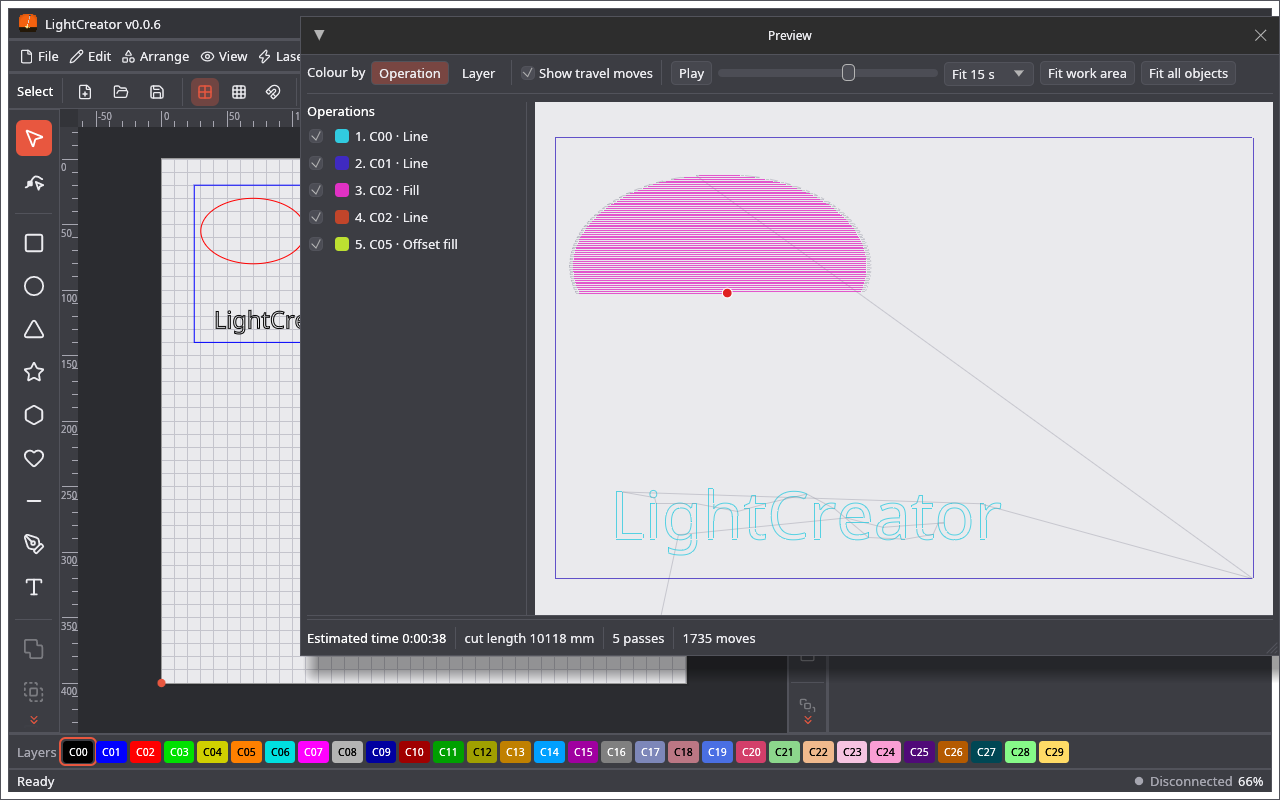
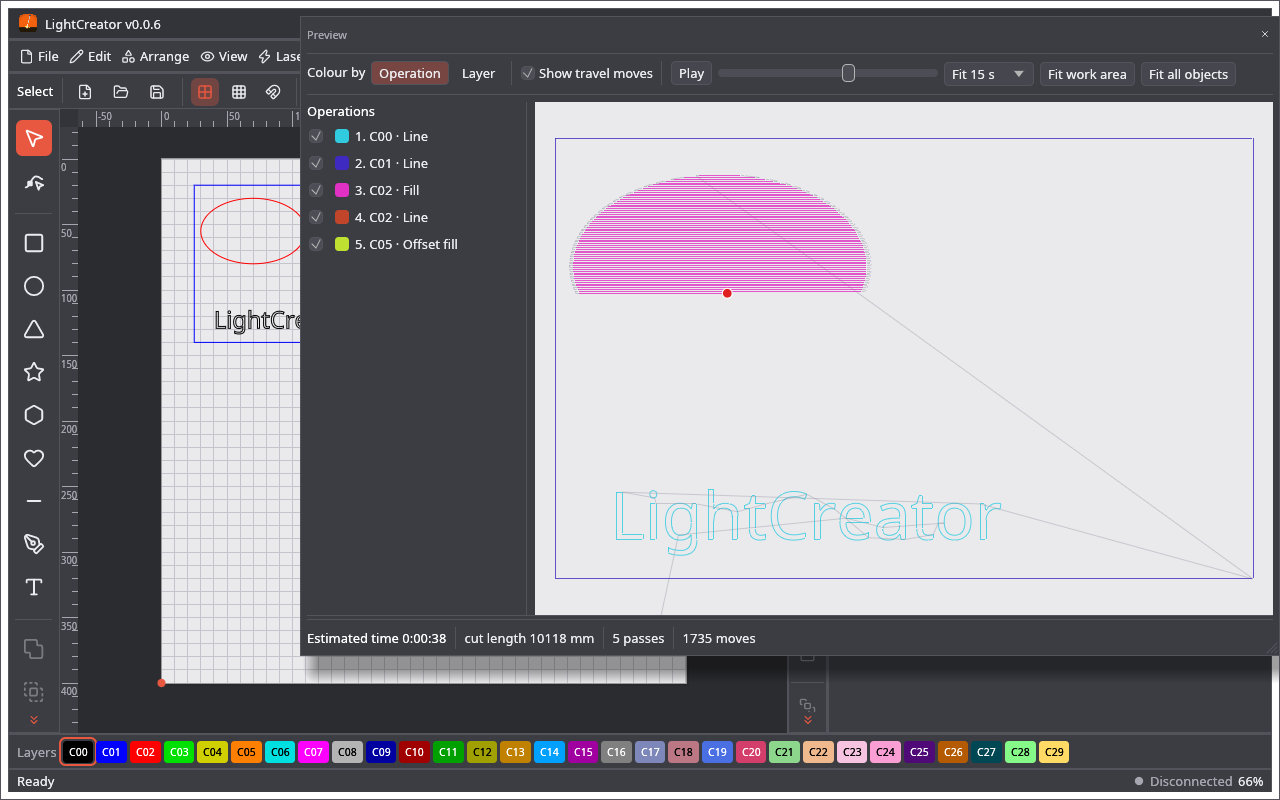
Slim title line with a small close button for the Preview and Camera view windows

diff --git a/crates/lightcreator/src/window_ui.rs b/crates/lightcreator/src/window_ui.rs
@@ -155,3 +155,22 @@ impl App {
         ctx.send_viewport_cmd(ViewportCommand::InnerSize(egui::vec2(w.max(900.0), h.max(560.0))));
     }
 }
+
+/// A slim title line for floating tool windows (preview, camera): small text and a small close button.
+pub fn mini_title(ui: &mut egui::Ui, title: &str, open: &mut bool) {
+    ui.horizontal(|ui| {
+        ui.spacing_mut().item_spacing.y = 0.0;
+        ui.label(egui::RichText::new(title).size(11.0).strong().color(theme::text_dim()));
+        ui.with_layout(egui::Layout::right_to_left(egui::Align::Center), |ui| {
+            let (rect, resp) = ui.allocate_exact_size(egui::vec2(16.0, 16.0), Sense::click());
+            if resp.hovered() {
+                ui.painter().rect_filled(rect, 3.0, theme::text().gamma_multiply(0.15));
+            }
+            crate::icons::paint(ui, rect.shrink(3.0), "x", theme::text());
+            if resp.on_hover_text(crate::i18n::tr("Close")).clicked() {
+                *open = false;
+            }
+        });
+    });
+    ui.separator();
+}

diff --git a/crates/lightcreator/src/preview_ui.rs b/crates/lightcreator/src/preview_ui.rs
@@ -131,7 +131,8 @@ impl App {
         let line_w = self.grid_prefs.line_width;
         let (bw, bh) = (self.doc.device.bed_w, self.doc.device.bed_h);
         let Some((_, job)) = self.pv.job.take() else { return };
-        egui::Window::new(RichText::new(tr("Preview")).size(12.0)).open(&mut open).default_size([980.0, 640.0]).resizable(true).show(ctx, |ui| {
+        egui::Window::new("preview_window").title_bar(false).default_size([980.0, 640.0]).resizable(true).show(ctx, |ui| {
+            crate::window_ui::mini_title(ui, &tr("Preview"), &mut open);
             ui.horizontal_wrapped(|ui| {
                 ui.label(tr("Colour by"));
                 ui.selectable_value(&mut self.pv.color_by, ColorBy::Operation, tr("Operation"));

diff --git a/crates/lightcreator/src/stream_ui.rs b/crates/lightcreator/src/stream_ui.rs
@@ -155,7 +155,10 @@ impl App {
         match self.stream_mode {
             StreamMode::Floating => {
                 let mut open = true;
-                egui::Window::new(RichText::new(tr("Camera view")).size(12.0)).open(&mut open).default_size([680.0, 540.0]).resizable(true).show(ctx, |ui| self.stream_view(ui));
+                egui::Window::new("camera_window").title_bar(false).default_size([680.0, 540.0]).resizable(true).show(ctx, |ui| {
+                    crate::window_ui::mini_title(ui, &tr("Camera view"), &mut open);
+                    self.stream_view(ui);
+                });
                 if !open {
                     self.stream_closed();
                 }
